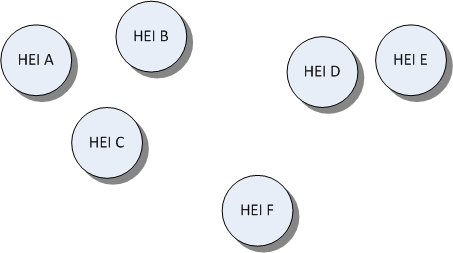
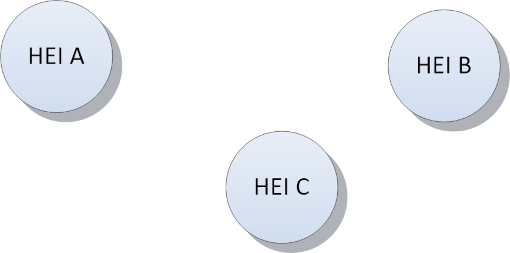
Impose 1 to 1 communication in EWP

diff --git a/README.md b/README.md
@@ -88,36 +88,32 @@ allowing communication between them.
 In order for the HEI to benefit from the EWP Project, it needs to be covered by
 an EWP Host which implements some APIs.
 
- * A single **EWP Host** describes **a set of HEIs along with a set of
-   implemented APIs**. We will describe the APIs in a moment. For now, let's
-   focus on the HEIs. In the picture below, Host 1 **covers** institutions A, B
-   and C, while institutions D and E are being covered by Host 2. Institution F
-   is not covered by any host in the EWP network.
-
- * In some countries, there will be only a single EWP Host per country. In
-   other countries every HEI will run its own EWP Host. Other more complex
-   topologies are also possible (see [below](#network-topologies)).
+A single **EWP Host** describes **a set of HEI along with a set of
+implemented APIs**. We will describe the APIs in a moment. For now, let's
+focus on the HEIs. In the picture below, Host 1 **covers** institution A,
+while institution B is being covered by Host 2. Institution C
+is not covered by any host in the EWP network.
 
 ![HEIs have been covered by two EWP Hosts](images/diagram-step2.png)
 
 
 ### APIs
 
-Apart from covering some HEIs, EWP Host also *implements* some APIs (for the
-HEIs it covers). EWP Hosts are **not required** to implement *all* features of
+Apart from covering a HEI, EWP Host also *implements* some APIs.
+EWP Hosts are **not required** to implement *all* features of
 the EWP Network. Each host can implement a different set of APIs. **They can
 also expose APIs unrelated to EWP** (we do not enforce *any* requirements on
 such APIs).
 
 ![Some APIs have been connected to both EWP Hosts](images/diagram-step3.png)
 
-Let's say that HEI B wants to fetch some data from the EWP Network.
+Let's say that HEI A wants to fetch some data from the EWP Network.
 
- * HEI B **knows** which API it wants to use, and it knows the ID of the HEI it
-   wants to retrieve the data from (let's say it's HEI D).
+ * HEI A **knows** which API it wants to use, and it knows the ID of the HEI it
+   wants to retrieve the data from (let's say it's HEI B).
 
- * HEI B **does not know** (yet) if HEI D implements the needed API and at
-   which URL it is being served. (It doesn't even know yet if HEI D is *being
+ * HEI A **does not know** (yet) if HEI B implements the needed API and at
+   which URL it is being served. (It doesn't even know yet if HEI B is *being
    covered* in the EWP Network at all.)
 
 Host 1 needs the **Registry Service** in order to answer these questions.
@@ -153,8 +149,8 @@ secure than updating the registry manually.
 
 Let's continue the example use case we have started to describe earlier.
 
-**HEI B** calls the EWP Registry Service. The Registry Service keeps track
-of all the HEIs and their APIs. Given the Registry response, HEI B is now able
+**HEI A** calls the EWP Registry Service. The Registry Service keeps track
+of all the HEIs and their APIs. Given the Registry response, HEI A is now able
 to determine which URL it needs to call in order to get the data. (In our
 simple case, this URL will be served by Host 2.)
 
@@ -163,7 +159,7 @@ which URL to call, is part of the [Registry API specification][registry-api].
 
 **Side-note** (for geeks only): Technically speaking, the Registry Service is
 *also* an API, and it is also embedded inside its own EWP Host, like all the
-other APIs. However, Registry's *EWP Host* does not cover any real HEIs and it
+other APIs. However, Registry's *EWP Host* does not cover a HEI and it
 does not implement any other APIs (except the [Registry API][registry-api]).
 Also the URLs at which the Registry API is implemented cannot change. So it's
 quite different from all other EWP Hosts.
@@ -171,46 +167,11 @@ quite different from all other EWP Hosts.
 ![Registry Service and information flow](images/diagram-step4.png)
 
 
-### How HEIs are covered by EWP Hosts
-
-The picture above can be a bit misleading. You might think that all HTTP
-requests in the EWP Network always originate from a single requesting HEI
-(because both light-blue lines start at HEI B in the picture). This is not the
-case.
-
-Non-anonymous requests in the EWP Network are performed with use of client
-credentials. Each set of client credentials is connected with a **group of
-HEIs**. So:
-
- * When Host 2 receives the request as pictured above, then - at first (based
-   on the credentials used) - it only knows that it came from Host 1, not from
-   HEI B in particular.
-
- * If the requested set of data should be visible to HEI B only (not HEI A nor
-   C), then the requested API will often require an extra parameter to be
-   provided along with each request to this API (e.g. `requesting_hei_id`).
-
- * Similarly, if the data HEI B is asking for is related to HEI D only, and the
-   host is not able to deduce this fact from other parameters, then the API
-   will also often require another parameter which will help the Host to
-   identify the HEI which to pull the data from (e.g. `responding_hei_id`).
-
-This might be a bit confusing at first glance, but it shouldn't make your work
-any harder. And, in case of some partners, it may actually allow them to
-exchange data in a more efficient way.
-
-It's worth noting that we have considered simpler architectures too (e.g. one
-EWP Host per HEI), but we have concluded that some partners are willing to
-leverage this more flexible design. See
-[this thread](https://github.com/erasmus-without-paper/ewp-specs-api-echo/issues/3)
-if you're interested in the details.
-
-
 <a name='network-topologies'></a>
 
 ### More complex network topologies
 
-As we have indicated before, Registry Service allows HEI B to easily answer the
+As we have indicated before, Registry Service allows HEI A to easily answer the
 questions like "is API X implemented for HEI Y?" and "which URL is the API
 implemented at?". However, the network in our example is quite simple. EWP
 Hosts allow us to describe much more complex topologies.
@@ -228,14 +189,6 @@ servers), thus creating multiple EWP Hosts. This is allowed in the EWP Network
 from the client's view point - **the client only needs to know which URL to
 call** to get the data it needs, and it doesn't need to know which EWP Host
 serves this URL. See [Registry API] [registry-api] for examples.
-
-**Example 2:**
-
-If your institution covers multiple HEIs, but - for some reason - you can
-implement an API for only some of these HEIs, then you might want to split your
-EWP Host into a couple of smaller ones. In other words, you may choose to have
-a single EWP Host per a single HEI, even if you are a SAAS provider for
-multiple HEIs.
 
 
 Other Recommendations
